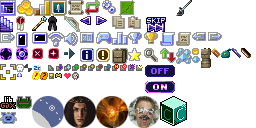
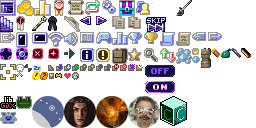
添加阳春草中毒效果 和 图标优化

diff --git a/core/src/main/java/com/shatteredpixel/shatteredpixeldungeon/ui/changelist/mlpd/vM0_7_X_Changes.java b/core/src/main/java/com/shatteredpixel/shatteredpixeldungeon/ui/changelist/mlpd/vM0_7_X_Changes.java
@@ -38,6 +38,7 @@ import java.util.ArrayList;
 
 public class vM0_7_X_Changes {
     public static void addAllChanges(ArrayList<ChangeInfo> changeInfos) {
+        add_V0712_Changes(changeInfos);
         add_V0711_Changes(changeInfos);
         add_V0710_Changes(changeInfos);
         add_V079_Changes(changeInfos);
@@ -48,6 +49,47 @@ public class vM0_7_X_Changes {
         add_V074_Changes(changeInfos);
         add_V071_Changes(changeInfos);
         add_GYD_Changes(changeInfos);
+    }
+
+    public static void add_V0712_Changes( ArrayList<ChangeInfo> changeInfos ) {
+        ChangeInfo changes = new ChangeInfo("v0.7.1.2", true, "");
+        changes.hardlight(Window.TITLE_COLOR);
+        changeInfos.add(changes);
+
+        changes = new ChangeInfo(Messages.get(ChangesScene.class, "new"), false, null);
+        changes.hardlight(Window.TITLE_COLOR);
+        changeInfos.add(changes);
+
+        changes.addButton(new ChangeButton(NetIcons.get(NetIcons.GLOBE), ("在线更新系统V2.0"),
+                ("进行了全方位优化，包括下载进度，游戏局内进度查看。可边下边更。")));
+
+        changes.addButton(new ChangeButton(Icons.get(Icons.AUDIO), ("新音乐：沙漠"),
+                ("作者：犬\n\n将在后续更新黄金时代第一部分同步实装。目前可在现实时间的夜晚状态彩蛋剧情欣赏音乐。")));
+
+
+        changes = new ChangeInfo(Messages.get(ChangesScene.class, "changes"), false, null);
+        changes.hardlight(CharSprite.WARNING);
+        changeInfos.add(changes);
+
+        changes.addButton(new ChangeButton(new Image(Assets.Sprites.SPINNER, 144, 0, 16, 16), Messages.get(ChangesScene.class, "bugfixes"),
+                "0.7.1.2版本:\n\n" +
+                        "1.修复钴币相关问题\n" +
+                        "2.修复FireBase上个版本提到的一些崩溃错误\n" +
+                        "3.修复变幻莫测粘咕水晶钥匙的一些异常"
+        ));
+
+        changes.addButton(new ChangeButton(new ItemSprite(ItemSpriteSheet.CHALLANEESICON_14), ("挑战：战术对抗V1.5"),
+                ("1.添加战术对抗竞技场\n\n2.聪明的敌人20%的概率不掉落于悬崖\n\n3.在同时开启此挑战和恐药后，阳春草不再提供治疗，反而给予和治疗药水相同的中毒效果")));
+
+        changes.addButton(new ChangeButton(Icons.get(Icons.PREFS), ("杂项改动"),
+                ("1.部分素材优化迭代\n" +
+                        "2.部分文案优化\n" +
+                        "3.部分细节优化更新\n" +
+                        "4.主界面进行了优化，并丰富了更多界面音乐")));
+
+        changes.addButton(new ChangeButton(new ItemSprite(ItemSpriteSheet.SKELETONGOLD), ("BossRushV1.5"),
+                ("1.修复2层钥匙异常\n\n2.修复14层和29层的一些异常\n\n3.修复部分地形的异常")));
+
     }
 
     public static void add_V0711_Changes( ArrayList<ChangeInfo> changeInfos ) {

diff --git a/core/src/main/java/com/shatteredpixel/shatteredpixeldungeon/plants/Sungrass.java b/core/src/main/java/com/shatteredpixel/shatteredpixeldungeon/plants/Sungrass.java
@@ -21,6 +21,9 @@
 
 package com.shatteredpixel.shatteredpixeldungeon.plants;
 
+import static com.shatteredpixel.shatteredpixeldungeon.Challenges.WARLING;
+
+import com.shatteredpixel.shatteredpixeldungeon.Challenges;
 import com.shatteredpixel.shatteredpixeldungeon.Dungeon;
 import com.shatteredpixel.shatteredpixeldungeon.actors.Char;
 import com.shatteredpixel.shatteredpixeldungeon.actors.buffs.Buff;
@@ -30,6 +33,7 @@ import com.shatteredpixel.shatteredpixeldungeon.actors.hero.HeroSubClass;
 import com.shatteredpixel.shatteredpixeldungeon.effects.CellEmitter;
 import com.shatteredpixel.shatteredpixeldungeon.effects.FloatingText;
 import com.shatteredpixel.shatteredpixeldungeon.effects.particles.ShaftParticle;
+import com.shatteredpixel.shatteredpixeldungeon.items.potions.PotionOfHealing;
 import com.shatteredpixel.shatteredpixeldungeon.messages.Messages;
 import com.shatteredpixel.shatteredpixeldungeon.sprites.CharSprite;
 import com.shatteredpixel.shatteredpixeldungeon.sprites.ItemSpriteSheet;
@@ -47,7 +51,10 @@ public class Sungrass extends Plant {
 	public void activate( Char ch ) {
 		
 		if (ch != null){
-			if (ch instanceof Hero && ((Hero) ch).subClass == HeroSubClass.WARDEN) {
+
+			if(Dungeon.isChallenged(Challenges.NO_HEALING) && ch instanceof Hero && Dungeon.isChallenged(WARLING)) {
+				PotionOfHealing.pharmacophobiaProc((Hero)ch);
+			} else if (ch instanceof Hero && ((Hero) ch).subClass == HeroSubClass.WARDEN) {
 				Buff.affect(ch, Healing.class).setHeal(ch.HT, 0, 1);
 			} else if(ch instanceof Hero) {
 				Buff.affect(ch, Health.class).boost(ch.HT);

diff --git a/core/src/main/java/com/shatteredpixel/shatteredpixeldungeon/scenes/TitleScene.java b/core/src/main/java/com/shatteredpixel/shatteredpixeldungeon/scenes/TitleScene.java
@@ -398,7 +398,7 @@ public class TitleScene extends PixelScene {
 							0.1f + (float)Math.sin(Game.timeTotal*5)/2f));
 					text(Messages.get(TitleScene.class, "dark"));
 					Music.INSTANCE.playTracks(
-							new String[]{Assets.NIGHT, Assets.Music.NBPL,Assets.Music.HALLS_BOSS_FINALE, Assets.Music.CITY_BOSS_FINALE},
+							new String[]{Assets.Music.SAND, Assets.Music.NBPL,Assets.Music.HALLS_BOSS_FINALE, Assets.Music.CITY_BOSS_FINALE},
 							new float[]{1, 1, 1, 1},
 							false);
 					icon(BadgeBanner.image(Badges.Badge.STORM.image));
@@ -482,11 +482,11 @@ public class TitleScene extends PixelScene {
 				ShatteredPixelDungeon.switchNoFade( AboutSelectScene.class );
 			}
 		};
-		btnAbout.icon(new Image("Ling.png", 0, 0, 16, 16));
+		btnAbout.icon(new Image(Icons.get(Icons.SHPX)));
 		add(btnAbout);
 
 		StyledButton btnNews = new NewsButton(GREY_TR, Messages.get(this, "news"));
-		btnNews.icon(new Image(NetIcons.get(NetIcons.NEWS)));
+		btnNews.icon(new Image(Icons.get(Icons.NEWS)));
 		add(btnNews);
 
 		final int BTN_HEIGHT = 20;
@@ -643,7 +643,7 @@ public class TitleScene extends PixelScene {
 
 		public SupportButton( Chrome.Type type, String label ){
 			super(type, label);
-			icon(new Image(NetIcons.get(NetIcons.PLAYERS)));
+			icon(new Image(Icons.get(Icons.THANKS)));
 		}
 
 		@Override

diff --git a/core/src/main/java/com/shatteredpixel/shatteredpixeldungeon/Assets.java b/core/src/main/java/com/shatteredpixel/shatteredpixeldungeon/Assets.java
@@ -295,6 +295,8 @@ public class Assets {
         public static final String CAVES_TENSE = "music/caves_tense.ogg";
         public static final String CAVES_BOSS_FINALE = "music/caves_boss_finale.ogg";
         public static final String CITY_BOSS_FINALE = "music/city_boss_finale.ogg";
+
+		public static final String SAND = "music/Sand.ogg";
         public static final String HALLS_TENSE = "music/halls_tense.ogg";
 
 		public static final String ANCITY = "music/Level_Ancity.ogg";

diff --git a/core/src/main/java/com/shatteredpixel/shatteredpixeldungeon/ui/Icons.java b/core/src/main/java/com/shatteredpixel/shatteredpixeldungeon/ui/Icons.java
@@ -39,6 +39,7 @@ public enum Icons {
 	CHANGES,
 	PREFS,
 	SHPX,
+	THANKS,
 
 	//rankings and hero select icons, spacing for 16x16
 	STAIRS,
@@ -173,6 +174,9 @@ public enum Icons {
 				break;
 			case SHPX:
 				icon.frame( icon.texture.uvRectBySize( 119, 0, 16, 16 ) );
+				break;
+			case THANKS:
+				icon.frame( icon.texture.uvRectBySize( 135, 0, 16, 16 ) );
 				break;
 			case DUELIST:
 				icon.frame( icon.texture.uvRectBySize( 176, 0, 16, 16 ));
